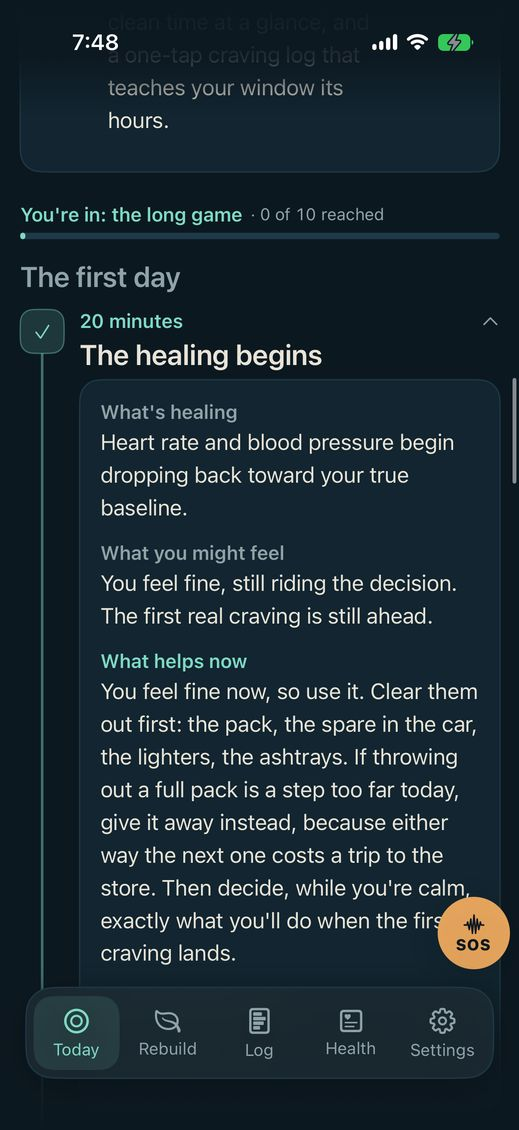
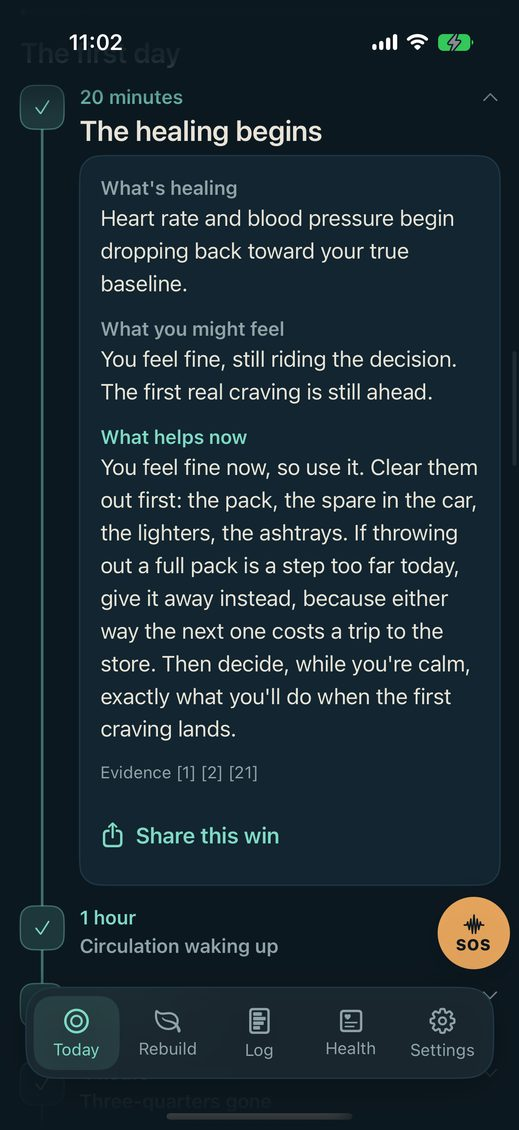
The audit round goes live: 85 fixes, current imagery, coming soon
The August 29 scorecard re-run (twelve fresh-eyes categories, adversarial
verify) and its same-day fix build, plus the two days after. Every claim
brought down to the build's truth; the ethos page gains the why chapter's
61 cited sources; privacy, 404 and the manual carry their full furniture.
Every iPhone shot re-taken from the current build (the hero and log show
the bar histogram, not the retired dial), og.jpg redrawn, webp beside
every jpg, alts rewritten from the pixels. The watch pair re-taken on the
current build after fixing a watchOS 27 bug the capture route found. And
the store badges tell the truth until launch: Coming soon to the App
Store, no dead links anywhere; the footer offers a launch-notice mailto
instead

Changed region(s): [[0.0308, 0.031, 0.9249, 0.8982], [0.3391, 0.9602, 0.6782, 0.9912], [0.9249, 0.2168, 1.0, 0.4336]]

diff --git a/index.html b/index.html
@@ -899,7 +899,7 @@ footer .row { display: flex; flex-wrap: wrap; gap: var(--s-l) var(--s-xl);
         </div>
       <div class="sechead-media">
         <div class="figure reveal">
-          <div class="phone scrolled">
+          <div class="phone">
             <picture><source type="image/webp" srcset="shots/recovery.webp 519w, shots/recovery@2x.webp 1038w" sizes="(max-width: 34rem) 13.75rem, 16.5rem"><img src="shots/recovery.jpg" width="519" height="1130" loading="lazy"
                  decoding="async"
                  alt="The Recovery systems card on Today. Carbon monoxide
@@ -979,7 +979,7 @@ footer .row { display: flex; flex-wrap: wrap; gap: var(--s-l) var(--s-xl);
             </div>
           </div>
           <div>
-            <div class="phone scrolled">
+            <div class="phone">
               <picture><source type="image/webp" srcset="shots/timeline.webp 519w, shots/timeline@2x.webp 1038w" sizes="(max-width: 34rem) 13.75rem, 16.5rem"><img src="shots/timeline.jpg" width="519" height="1130" loading="lazy"
                    decoding="async"
                    alt="The recovery timeline's twenty-minute milestone, open.
